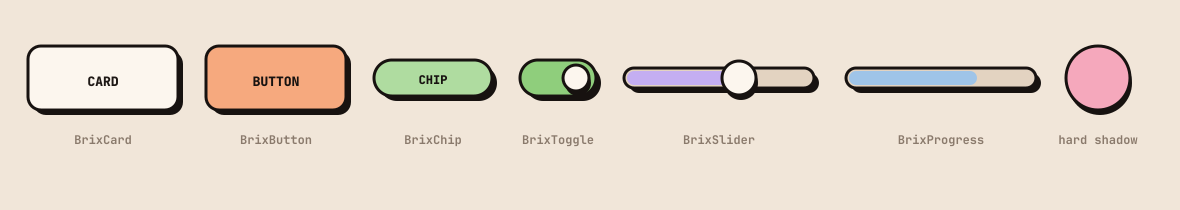
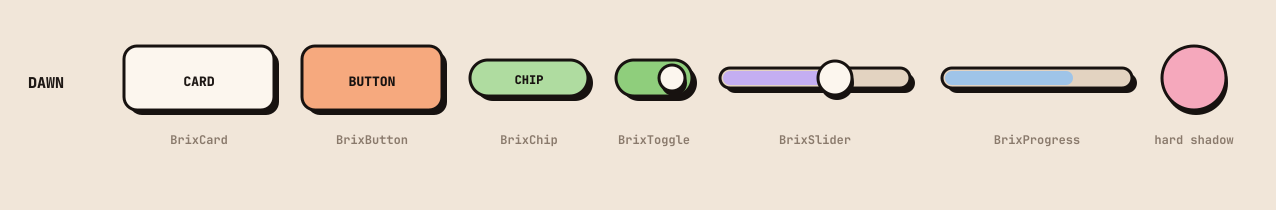
docs: show both shape strips instead of theme-switching between them
The header used <picture> with prefers-color-scheme, so a reader on GitHub's
dark theme only ever saw the dusk strip and the dawn one appeared to be missing.
Both are shown now, and each carries its own DAWN/DUSK label so it does not
depend on a caption to be understood.

diff --git a/README.md b/README.md
@@ -5,19 +5,16 @@
 ---
 
 <p align="center">
-  <picture>
-    <source media="(prefers-color-scheme: dark)" srcset="docs/identity/shapes-dusk.png">
-    <img src="docs/identity/shapes-dawn.png" alt="The Neobrix component vocabulary: card, button, chip, toggle, slider, progress meter, each with a chunky outline and a hard offset shadow">
-  </picture>
+  <img src="docs/identity/shapes-dawn.png" alt="The Neobrix component vocabulary in the dawn palette: card, button, chip, toggle, slider, progress meter, each with a chunky outline and a hard offset shadow">
+</p>
+
+<p align="center">
+  <img src="docs/identity/shapes-dusk.png" alt="The same component vocabulary in the dusk palette">
 </p>
 
 <p align="center">
   <img src="docs/identity/palette.png" alt="The Neobrix palettes: dawn and dusk, fifteen roles each, with hex values">
 </p>
-
-Both strips are generated by `scripts/neobrix-generate-identity` from
-`scripts/lib/palette.sh` — the same values the desktop itself uses — so they
-cannot drift from the running shell.
 
 ---
 
